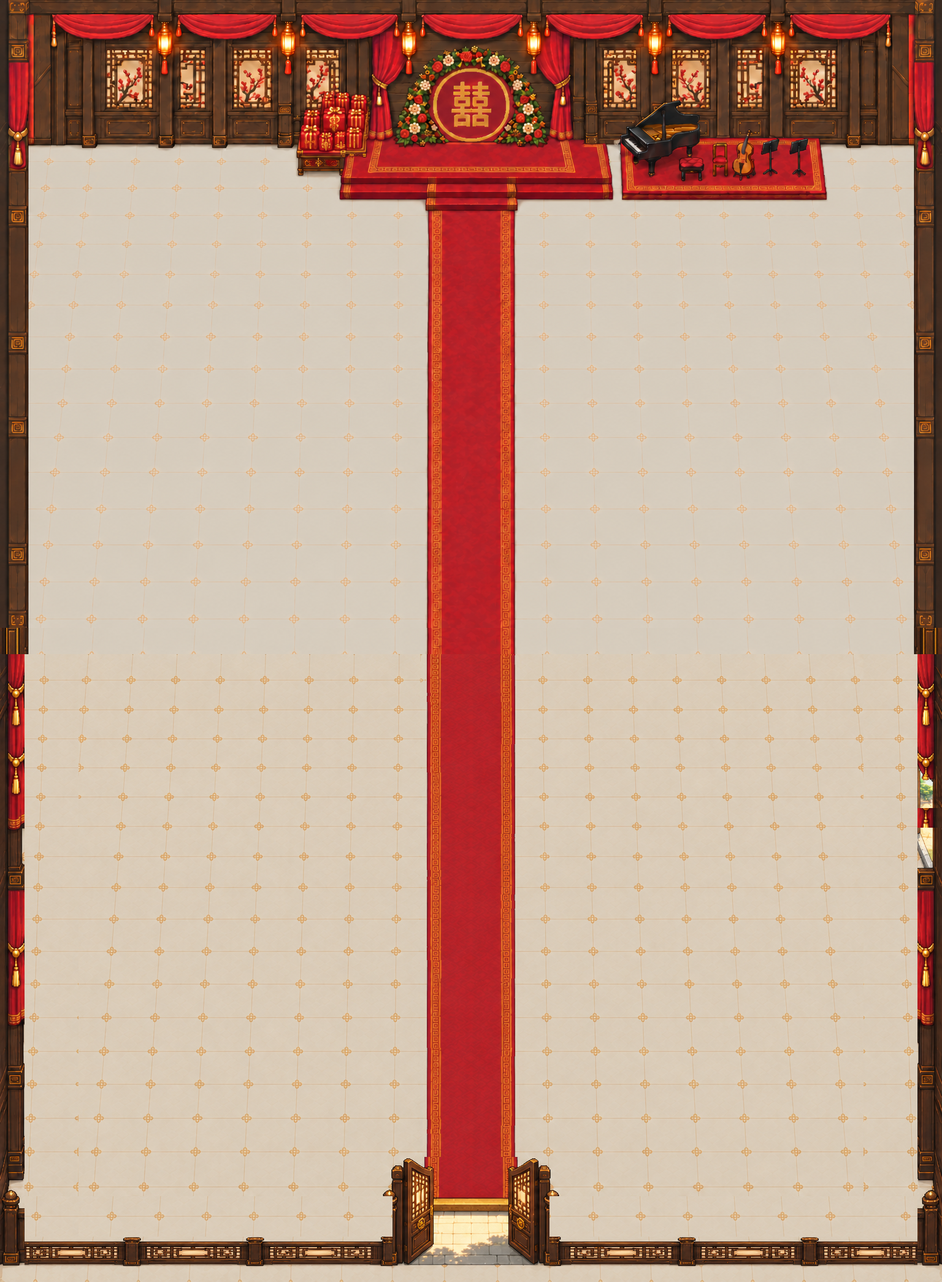
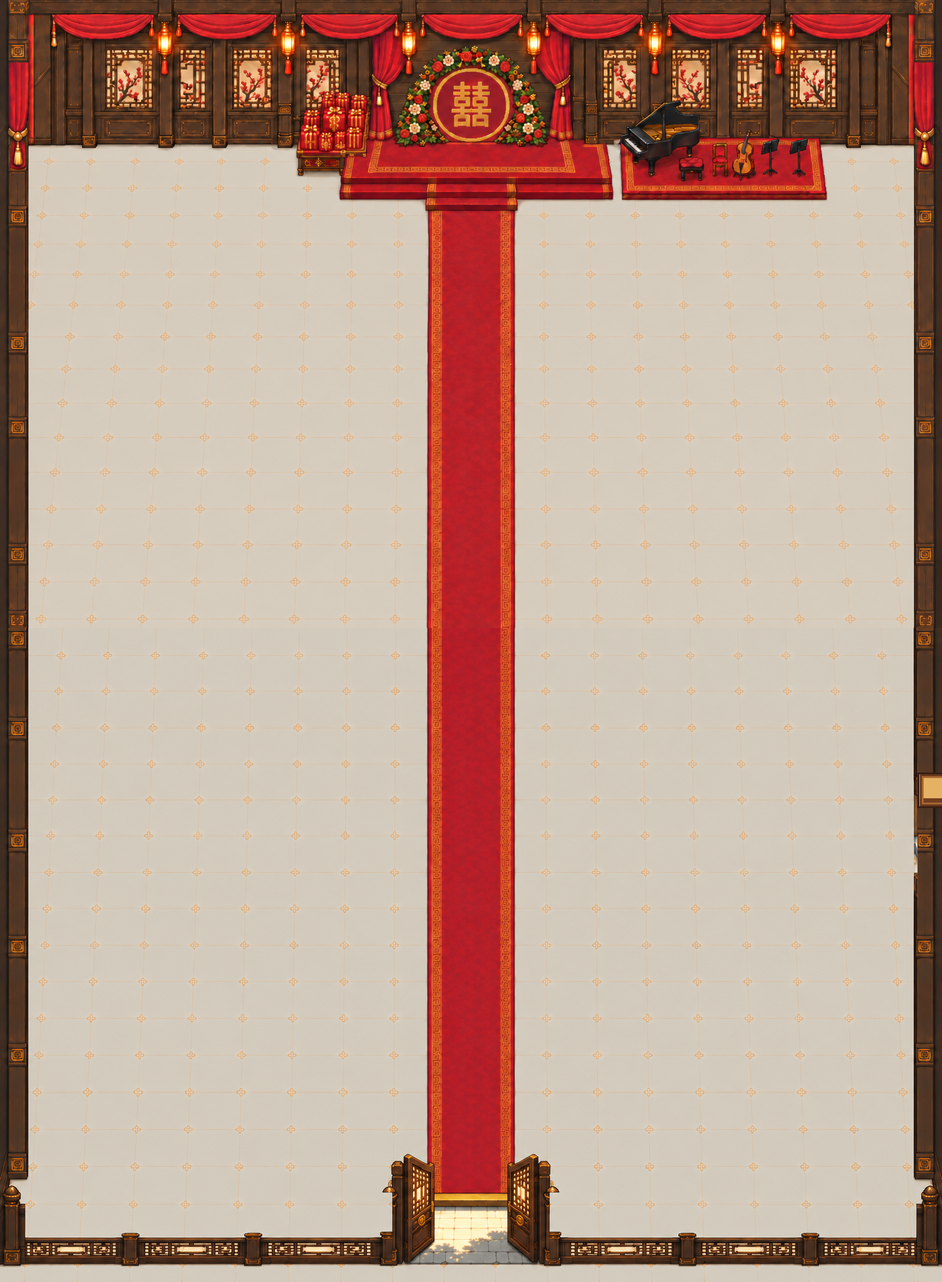
南边换 GPT 照色块画的 B55S-BG02（南边·照色块-v1-20261002，sha256 跟交付.json 对上）：1536×1067，北边 1024 往南直接接，不再留 43 像素那截地砖；大门、栏杆、门槛、东侧门照摆位表的框套过都对上，走路格子跟原来逐格一样；接缝 北南 7.3→3.3、墙 35→5；W01 v3 对齐差 2.6 对得上，但整截被南边那张盖住，看不见

diff --git a/godot/tools/layout_55/build_graybox55.py b/godot/tools/layout_55/build_graybox55.py
@@ -56,7 +56,11 @@ if ART_SET == "b55s":
                   "bench": "blk_banquet55s_bench_v1.png", "lantern": "blk_banquet55s_aisle_post_v1.png",
                   "flowerpot": "blk_banquet55s_flowerpot_v1.png", "flowerstand": "blk_banquet55s_flowerstand_v1.png",
                   "gift": "blk_banquet55s_giftpile_v1.png"}
-    ART_FLOOR = os.path.join(ART, "tex_banquet55s_floor_v1.png")
+    ART_FLOOR = os.path.join(ART, "tex_banquet55s_floor_v3.png")   # 10/2 GPT 交 W01 v3（v1 跟北边的砖对不上）
+    # 10/2 GPT 照色块画的南边 B55S-BG02（1536×1067，整厅 y 1024～2091）：北边 1024 往南直接接它，中间不再留一截地砖；
+    # 大门、栏杆、东侧门画在整厅同一个位置（02 拿摆位表的框套过：门柱、门洞、门槛、栏杆、东侧门 1260～1318 都对上），
+    # 所以下面 SOUTH_* 那些坐标照旧（还是按「南边那张上沿 = 厅长 − 1024」算的整厅坐标）。W01 现在被南边那张整个盖住，铺不铺都看不见
+    ART_SOUTH = os.path.join(ART, "base_banquet55s_south_v1.png")
 ART_WALL_W = os.path.join(ART, "tex_banquet55_wall_west_v1.png")   # 中间那截的竖墙，40×240 一段段接
 ART_WALL_E = os.path.join(ART, "tex_banquet55_wall_east_v1.png")
 if ART_SET == "b55s":
